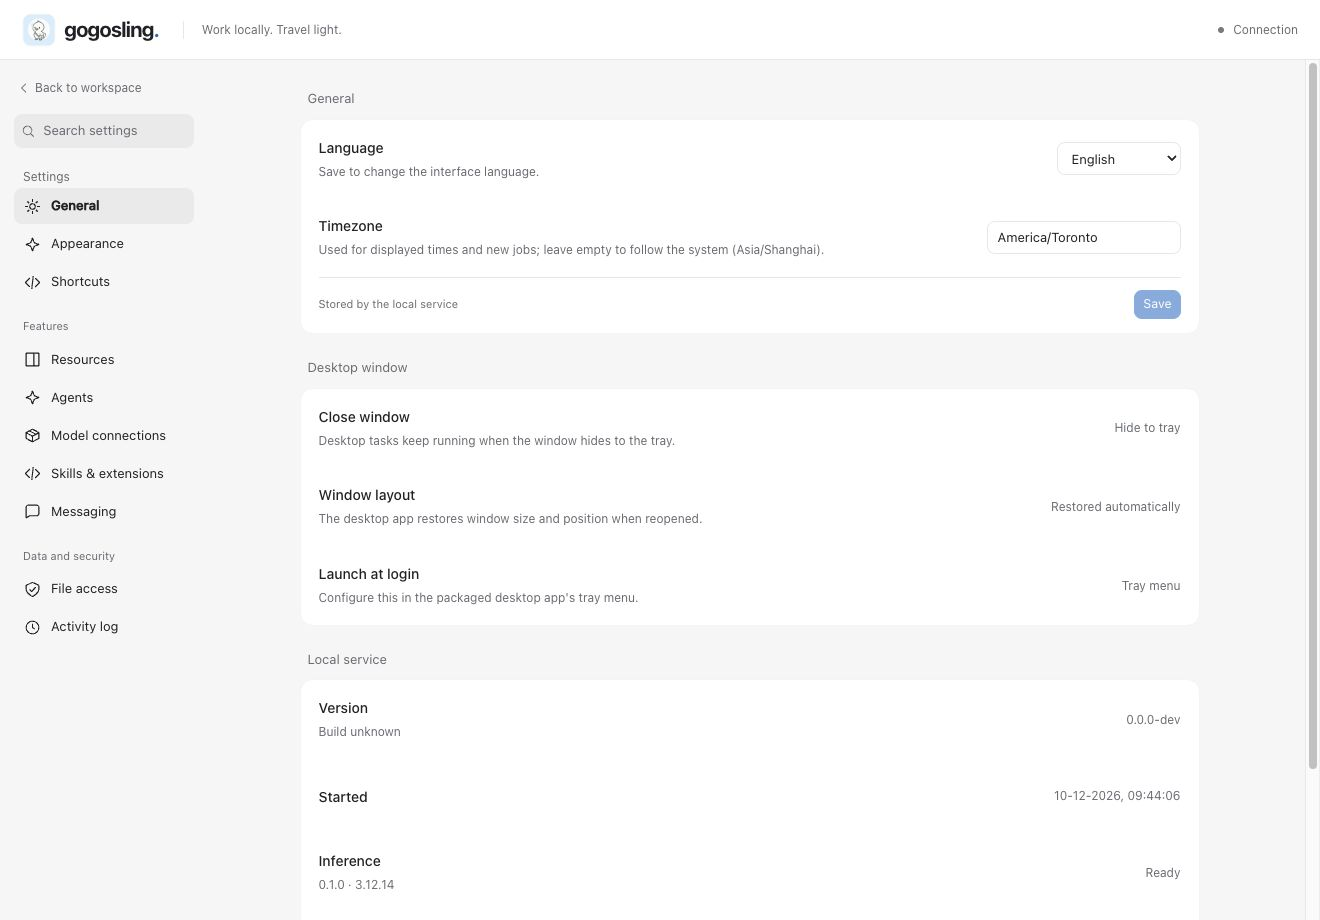
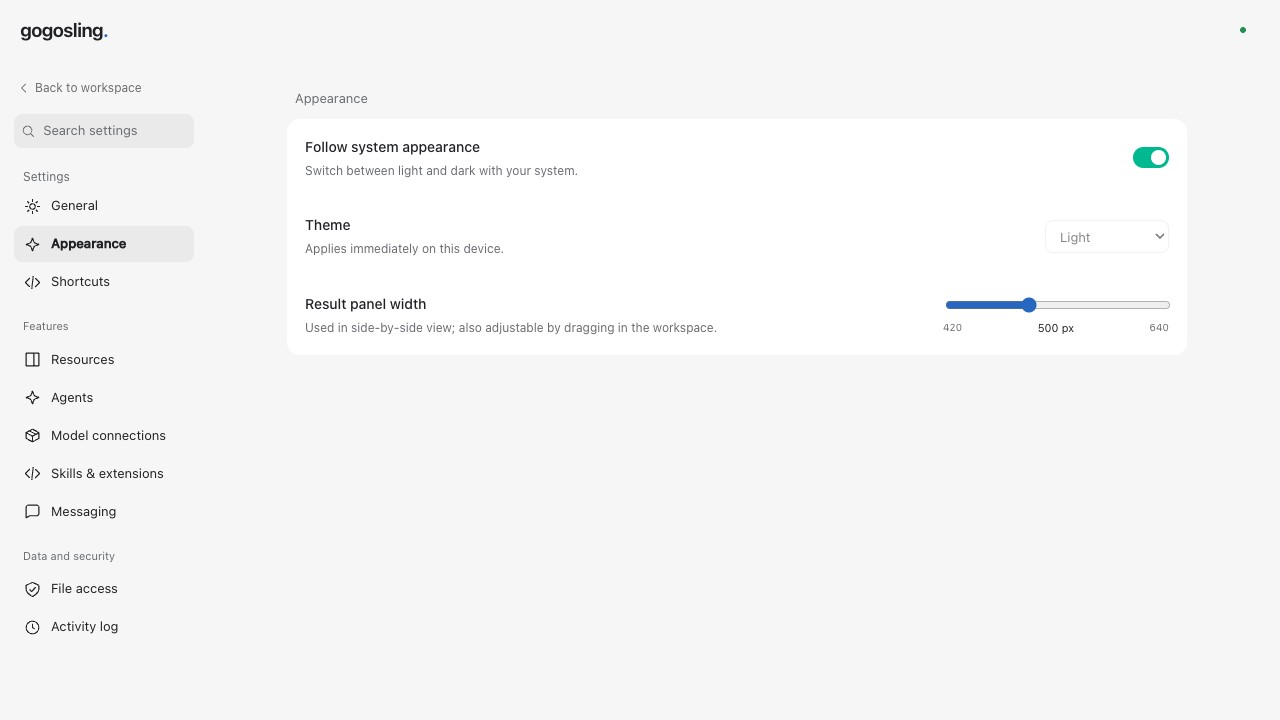
docs(readme): 重写项目首页并更新英文演示截图

diff --git a/README.md b/README.md
@@ -1,7 +1,7 @@
-<p align="center"><img src="apps/web/public/brand/gosli.png" width="80" alt="Gosli, the gogosling mascot"></p>
+<p align="center"><img src="apps/web/public/brand/gosli.png" width="64" alt="Gosli, the gogosling mascot"></p>
 <h1 align="center">gogosling</h1>
-<p align="center"><strong>Work locally. Travel light.</strong></p>
-<p align="center">An open-source AI workbench for your files, focused tasks, and reviewable changes.</p>
+<p align="center"><strong>Bring the brief. Leave with a file.</strong></p>
+<p align="center">Read documents, write drafts, and review code changes.<br>Keep the conversation beside the work, with projects saved on your machine.</p>
 
 <p align="center">
   <a href="https://github.com/GoGoslingCA/gogosling/actions/workflows/ci.yml"><img src="https://github.com/GoGoslingCA/gogosling/actions/workflows/ci.yml/badge.svg?branch=main" alt="Build and tests"></a>
@@ -9,58 +9,38 @@
   <a href="https://gogosling.ca"><img src="https://img.shields.io/badge/Built_in-Canada-D52B1E" alt="Built in Canada"></a>
 </p>
 <p align="center">
-  Documentation in English<br>
-  <a href="#try-it">Try it</a> · <a href="docs/README.md">Docs</a> · <a href="ROADMAP.md">Roadmap</a> · <a href="CONTRIBUTING.md">Contribute</a> · <a href="https://github.com/GoGoslingCA/gogosling/discussions">Discuss</a>
+  <a href="#run-it">Run it</a> · <a href="docs/README.md">Docs</a> · <a href="ROADMAP.md">Roadmap</a> · <a href="CONTRIBUTING.md">Contribute</a>
 </p>
 
-**Developed by [Gogosling.ca](https://gogosling.ca), a Canadian company.** We welcome pull requests from developers everywhere. Help advance open-source AI in Canada with tools that people can inspect, run locally, and improve together.
+**An open-source desktop AI workspace, developed by [Gogosling.ca](https://gogosling.ca), a Canadian company.** Bring your own model connection. No gogosling account required.
 
-> **Development preview.** Run from source or build a desktop package. Signed releases and broader device validation are on the [roadmap](ROADMAP.md). Expect changes as the project matures.
+> **Beta:** run from source or build a desktop package. Signed installers are still on the [roadmap](ROADMAP.md).
 
-![The English start page: a focused composer, projects, and recent tasks](docs/assets/start-en.jpg)
+![A project, conversation, and editable draft together in gogosling](docs/assets/workbench-en.jpg)
 
-*Actual development UI in an isolated demo workspace. Interface languages: English, Simplified Chinese, and French.*
+*Actual app, synthetic demo content, local test model. This shows the workflow, not a model-quality benchmark.*
 
-## From an idea to a saved result
+## Keep your work in reach
 
-1. **Bring the material.** Start a task, add a file, and choose the project materials to reference.
-2. **Work alongside the result.** Keep the conversation and a document preview side by side. Refine a prompt before sending it.
-3. **Review, then save.** Edit a draft, keep a version, export a copy, or inspect a file change before applying it. Undo uses the same permission checks.
-
-Projects, drafts, task history, and result versions live in the local daemon. Desktop, browser, and CLI share that work through a versioned API.
-
-## Built to keep work local and bounded
-
-- **Separate client and engine.** The Go daemon owns state, permissions, and scheduling. A replaceable Python worker handles inference; Electron and React stay clients.
-- **Controlled concurrency.** Two running tasks and a 32-item queue by default, configurable parallelism, same-workspace serialization, and cancellation that releases local resources.
-- **On-demand viewers.** Preview modules load when opened. Parsing has size, time, and concurrency limits; closing a preview releases its resources.
-- **Reviewable changes.** Draft conflict checks, immutable result versions, and guarded text-file apply/undo support recovery.
-- **Your model, your tools.** OpenAI-compatible and Anthropic endpoints, compatible local model servers, MCP, extensions, and scheduled tasks.
-
-Resource and performance goals still need reproducible measurements. [Help us build benchmarks](ROADMAP.md#help-measure-the-difference) for memory use, responsiveness, and cancellation.
-
-### Read files without leaving the task
-
-View Markdown, text/code, static HTML/SVG, PDF, images, browser-supported audio/video, CSV/TSV, modern Office, OpenDocument, and archive listings.
-
-Office previews emphasize readable content; they are not full Office editors. Legacy Office and layout conversion currently require optional sandboxed LibreOffice on macOS. Other unsupported formats keep a download path. [Format boundaries →](docs/design/content-preview-architecture.md)
+- **Read beside the conversation.** Open a document or code file in the results pane while asking for changes.
+- **Pick the context.** Group files and tasks into projects. Choose which materials a task should reference.
+- **Keep a draft you can return to.** Edit text, save versions, copy, and export. Resume a task from the sidebar.
+- **Check a file edit before applying it.** Inspect the diff, apply through the permission checks, and undo supported text-file changes. External edits trigger conflict checks.
 
 <details>
-<summary>See the workbench and settings</summary>
+<summary>See the start page and settings</summary>
 
-![A conversation alongside a document preview](docs/assets/workbench-en.jpg)
+![The start page with project navigation and a focused composer](docs/assets/start-en.jpg)
 
-English development demo: a synthetic workshop plan and project brief beside the conversation. The isolated local demo contains no personal task history. Sample content illustrates the UI, not model quality.
+![Settings for language, models, tools, and file access](docs/assets/settings-en.jpg)
 
-![English settings with grouped navigation and language selection](docs/assets/settings-en.jpg)
-
-Models, tools, connections, permissions, and resource controls are grouped in Settings.
+The interface supports English, French, and Simplified Chinese. Model connections, tools, permissions, and resource limits live in Settings.
 
 </details>
 
-## Try it
+## Run it
 
-Requires **Go 1.26, Node.js 22.12+, Python 3.12, uv, Git, and make**. Use Bash on macOS/Linux, or WSL2 for this development workflow on Windows.
+For the source workflow, install **Go 1.26, Node.js 22 LTS (22.12+), Python 3.12, uv, Git, and make**. Use Bash on macOS/Linux, or WSL2 for Web development on Windows.
 
 ```bash
 git clone https://github.com/GoGoslingCA/gogosling.git
@@ -76,55 +56,62 @@ In a second terminal, from the same checkout:
 npm run dev -w @gogosling/web -- --strictPort
 ```
 
-Open **http://127.0.0.1:5173**. Leave the connection address empty and enter the `token` from your local `~/.gogosling-dev/daemon.json`. Do not share this file; the browser keeps the token only in memory.
+1. Open **http://127.0.0.1:5173**. Leave the connection address empty and enter the `token` from your local `~/.gogosling-dev/daemon.json`. Keep that file private; the browser holds the token only in memory.
+2. In **Settings → Model connections**, add and test a provider.
+3. In **Settings → Agents**, create an agent and select its model. Start a task or create a project from the sidebar.
 
-In **Settings → Model connections**, connect your provider. Then choose the model in **Settings → Agents** and start a task. Starting the app and running tests do not require a paid model key; real requests may incur provider charges.
+[Setup and troubleshooting →](docs/development/quickstart.md)
 
-[Full setup, Electron launch, and troubleshooting →](docs/development/quickstart.md)
+<details>
+<summary>Build a desktop package</summary>
 
-### Build a desktop package
-
-After installing the development dependencies above, run:
+With the build prerequisites installed on the target OS and architecture:
 
 ```bash
 npm run package -w @gogosling/desktop
 ```
 
-This builds for the current machine and bundles the daemon, Python runtime, worker dependencies, and Web UI. The package runs without separately installed Go, Node.js, Python, or uv. Staging checks the runtime after moving it to a new path and verifies inference with a local test model.
+The package includes the daemon, Python runtime, worker, and UI. Users do not need separate Go, Node, Python, or uv installations. Build outputs are unsigned and saved in `apps/desktop/release/`; configure a model after launch. See the [desktop guide](apps/desktop/README.md) for native build prerequisites and platform limits.
 
-Build outputs are unsigned development artifacts in `apps/desktop/release/`. See the [desktop build guide](apps/desktop/README.md) for prerequisites, supported build hosts, and validation limits. Model connections still need to be configured after launch.
+</details>
 
-### Current boundaries
+## Three things to try
 
-- Core CI covers **Linux, macOS, and Windows**; signed installers and full desktop validation are still release work.
-- Guarded text-file apply/undo supports **Linux/macOS**; Windows keeps preview and export.
-- Local-first describes storage and orchestration. **Remote models receive the context sent to them.** No gogosling cloud account is required.
-- HTML previews are static and sandboxed, with external resources blocked. Credentials are stored separately from the application database.
+- **Turn requirements into a plan.** Use a Markdown requirements file or paste a brief. Draft a plan, then edit it beside the conversation.
+- **Review a code change.** Ask for revised file content, save it as a result, then preview and approve the change to one text file.
+- **Prepare a project brief.** Read a slide deck in the preview pane, supply the key text, and draft a one-page brief to edit and export.
 
-## Architecture you can contribute to
+## What makes this workspace different
 
-```mermaid
-flowchart LR
-    UI["Desktop · Web · CLI"] -->|"Local HTTP + SSE"| D["Go daemon: state, permissions, scheduling"]
-    D -->|"stdio JSON-RPC"| W["Python inference worker"]
-    W --> M["Your model endpoint"]
-    D --> S["Local SQLite + workspace"]
-```
+**Projects have a place of their own.** Reopen the files, tasks, and saved results together. The latest draft stays within reach when the conversation gets long.
 
-The worker requests tools; the daemon checks permissions and executes them. The UI never opens the database directly. Start with the [English architecture guide](docs/development/architecture-guide.md); the [detailed architecture](docs/architecture.md) defines dependency and safety rules.
+**The model is your choice.** Connect an OpenAI-compatible endpoint, Anthropic Messages, or a compatible local model server. Remote models receive the context you send and may charge for requests. Local storage does not mean every model request stays on the device.
+
+**Concurrency has a limit.** By default, two tasks run at once and up to 32 wait in the queue. Tasks sharing a workspace run in order. File viewers load when opened and release resources when closed. We have not published comparative memory or energy benchmarks; [help us measure them](ROADMAP.md#help-measure-the-difference).
+
+## Know the current limits
+
+- Preview Markdown, code, static HTML/SVG, PDF, images, CSV/TSV, modern Office, OpenDocument, archive listings, and browser-supported media. Preview support does not imply model understanding of every format. [Format details →](docs/design/content-preview-architecture.md)
+- Office support is for reading, not full Office editing. Legacy formats and layout conversion need optional sandboxed LibreOffice on macOS.
+- Guarded text-file apply/undo works on Linux/macOS. Windows retains preview and export. Cross-platform core CI is not a claim of fully validated desktop installers.
+
+## Under the hood
+
+A **Go daemon** owns local state, permissions, and scheduling. A **Python worker** handles inference. **Electron and React** provide the desktop UI; Web and CLI clients use the same local API. Tool calls, including those from scheduled tasks and MCP extensions, pass through the daemon’s permission checks.
+
+[Architecture](docs/development/architecture-guide.md) · [Detailed contracts](docs/architecture.md) · [Development guide](docs/development/quickstart.md)
 
 ## Build with us
 
-**PRs are welcome.** A reproducible bug, clearer setup instructions, a French translation fix, or a small document fixture is a useful contribution.
+**PRs are welcome, from Canada and everywhere else.** Help Gogosling.ca build practical open-source AI tools in Canada.
 
-- [Choose a first contribution](CONTRIBUTING.md#good-places-to-start).
-- [Explore the roadmap and maintenance areas](ROADMAP.md).
-- [Report a bug or propose an improvement](https://github.com/GoGoslingCA/gogosling/issues/new/choose).
-- [Introduce an area you would like to help maintain](https://github.com/GoGoslingCA/gogosling/discussions).
+A small contribution counts: reproduce a file-preview bug, fix a keyboard interaction, improve a translation, test setup on a clean machine, or add a resource-usage benchmark.
+
+- [Pick a first contribution](CONTRIBUTING.md#good-places-to-start).
+- [Report a bug or request a feature](https://github.com/GoGoslingCA/gogosling/issues/new/choose).
+- [Discuss an idea or help maintain a module](https://github.com/GoGoslingCA/gogosling/discussions).
 - [Report a security issue privately](SECURITY.md).
-
-Built in Canada, open to everyone. Small, reviewed changes help grow a sustainable Canadian open-source AI community. If this direction is useful to you, a star helps others discover the project.
 
 ## License
 
-[MIT](LICENSE) · Developed by [Gogosling.ca](https://gogosling.ca).
+[MIT](LICENSE) · [Gogosling.ca](https://gogosling.ca).

diff --git a/docs/assets/README.md b/docs/assets/README.md
@@ -1,8 +1,23 @@
 # Repository screenshots
 
-These images show actual gogosling development UI, captured on 2026-10-12.
+These images show the actual gogosling development UI, captured on 2026-10-13.
 
-- `start-en.jpg` and `settings-en.jpg`: isolated local demo data, English UI; no external model call.
-- `workbench-en.jpg`: isolated English demonstration with one synthetic workshop task and a Markdown project brief. The reply comes from a local fake model, with no external model call or personal task history.
+- `start-en.jpg` (1280 × 720): the start page, project navigation, and local task controls.
+- `workbench-en.jpg` (1440 × 720): a synthetic release brief, its conversation, and the saved Markdown document editor. The follow-up in the composer is an unsent draft.
+- `settings-en.jpg` (1280 × 720): appearance settings and the settings navigation.
 
-Screenshots are captured from the app, not generated mockups. Refresh them when the corresponding workflow changes. Avoid private task titles, paths, model keys, or access tokens. The Gosli logo source is documented in [the brand assets](../../apps/web/public/brand/README.md).
+All three use an isolated local data directory with English demo content. The release brief is a synthetic response from a local fake model; no external model service was called. The demo does not contain personal task history, private file paths, or credentials. The displayed model name is a demo label, not a shipped model.
+
+These are browser captures of the application, not generated mockups. Refresh them when the corresponding workflow changes. The Gosli logo source is documented in [the brand assets](../../apps/web/public/brand/README.md).
+
+## Suggested social preview
+
+This is a design brief; a custom social preview has not been uploaded as part of this update.
+
+- Use a 1280 × 640 image with an opaque white or sky-blue background. Keep the exported PNG or JPEG below 1 MB, following [GitHub's preview guidance](https://docs.github.com/en/repositories/managing-your-repositorys-settings-and-features/customizing-your-repository/customizing-your-repositorys-social-media-preview).
+- Put the gogosling wordmark and **Bring the brief. Leave with a file.** on the left. Keep Gosli small enough that the product remains the focus.
+- Use a crop of the actual conversation and saved-result editor on the right. Keep Save/Export visible and avoid a collage of unrelated screens.
+- Add **Built in Canada by Gogosling.ca** below the headline. Use brand blue `#2867BF` for emphasis, not a large flag or extra badges.
+- Keep important text away from the edges and check it at thumbnail size. Do not include star counts, performance rankings, or claims about memory savings without measurements.
+
+For a future README animation, show one short loop: select a project, open a result, edit, and save. Capture the real app with synthetic data; show no credentials or personal files. Keep the static screenshot as the primary image until that recording is available.
